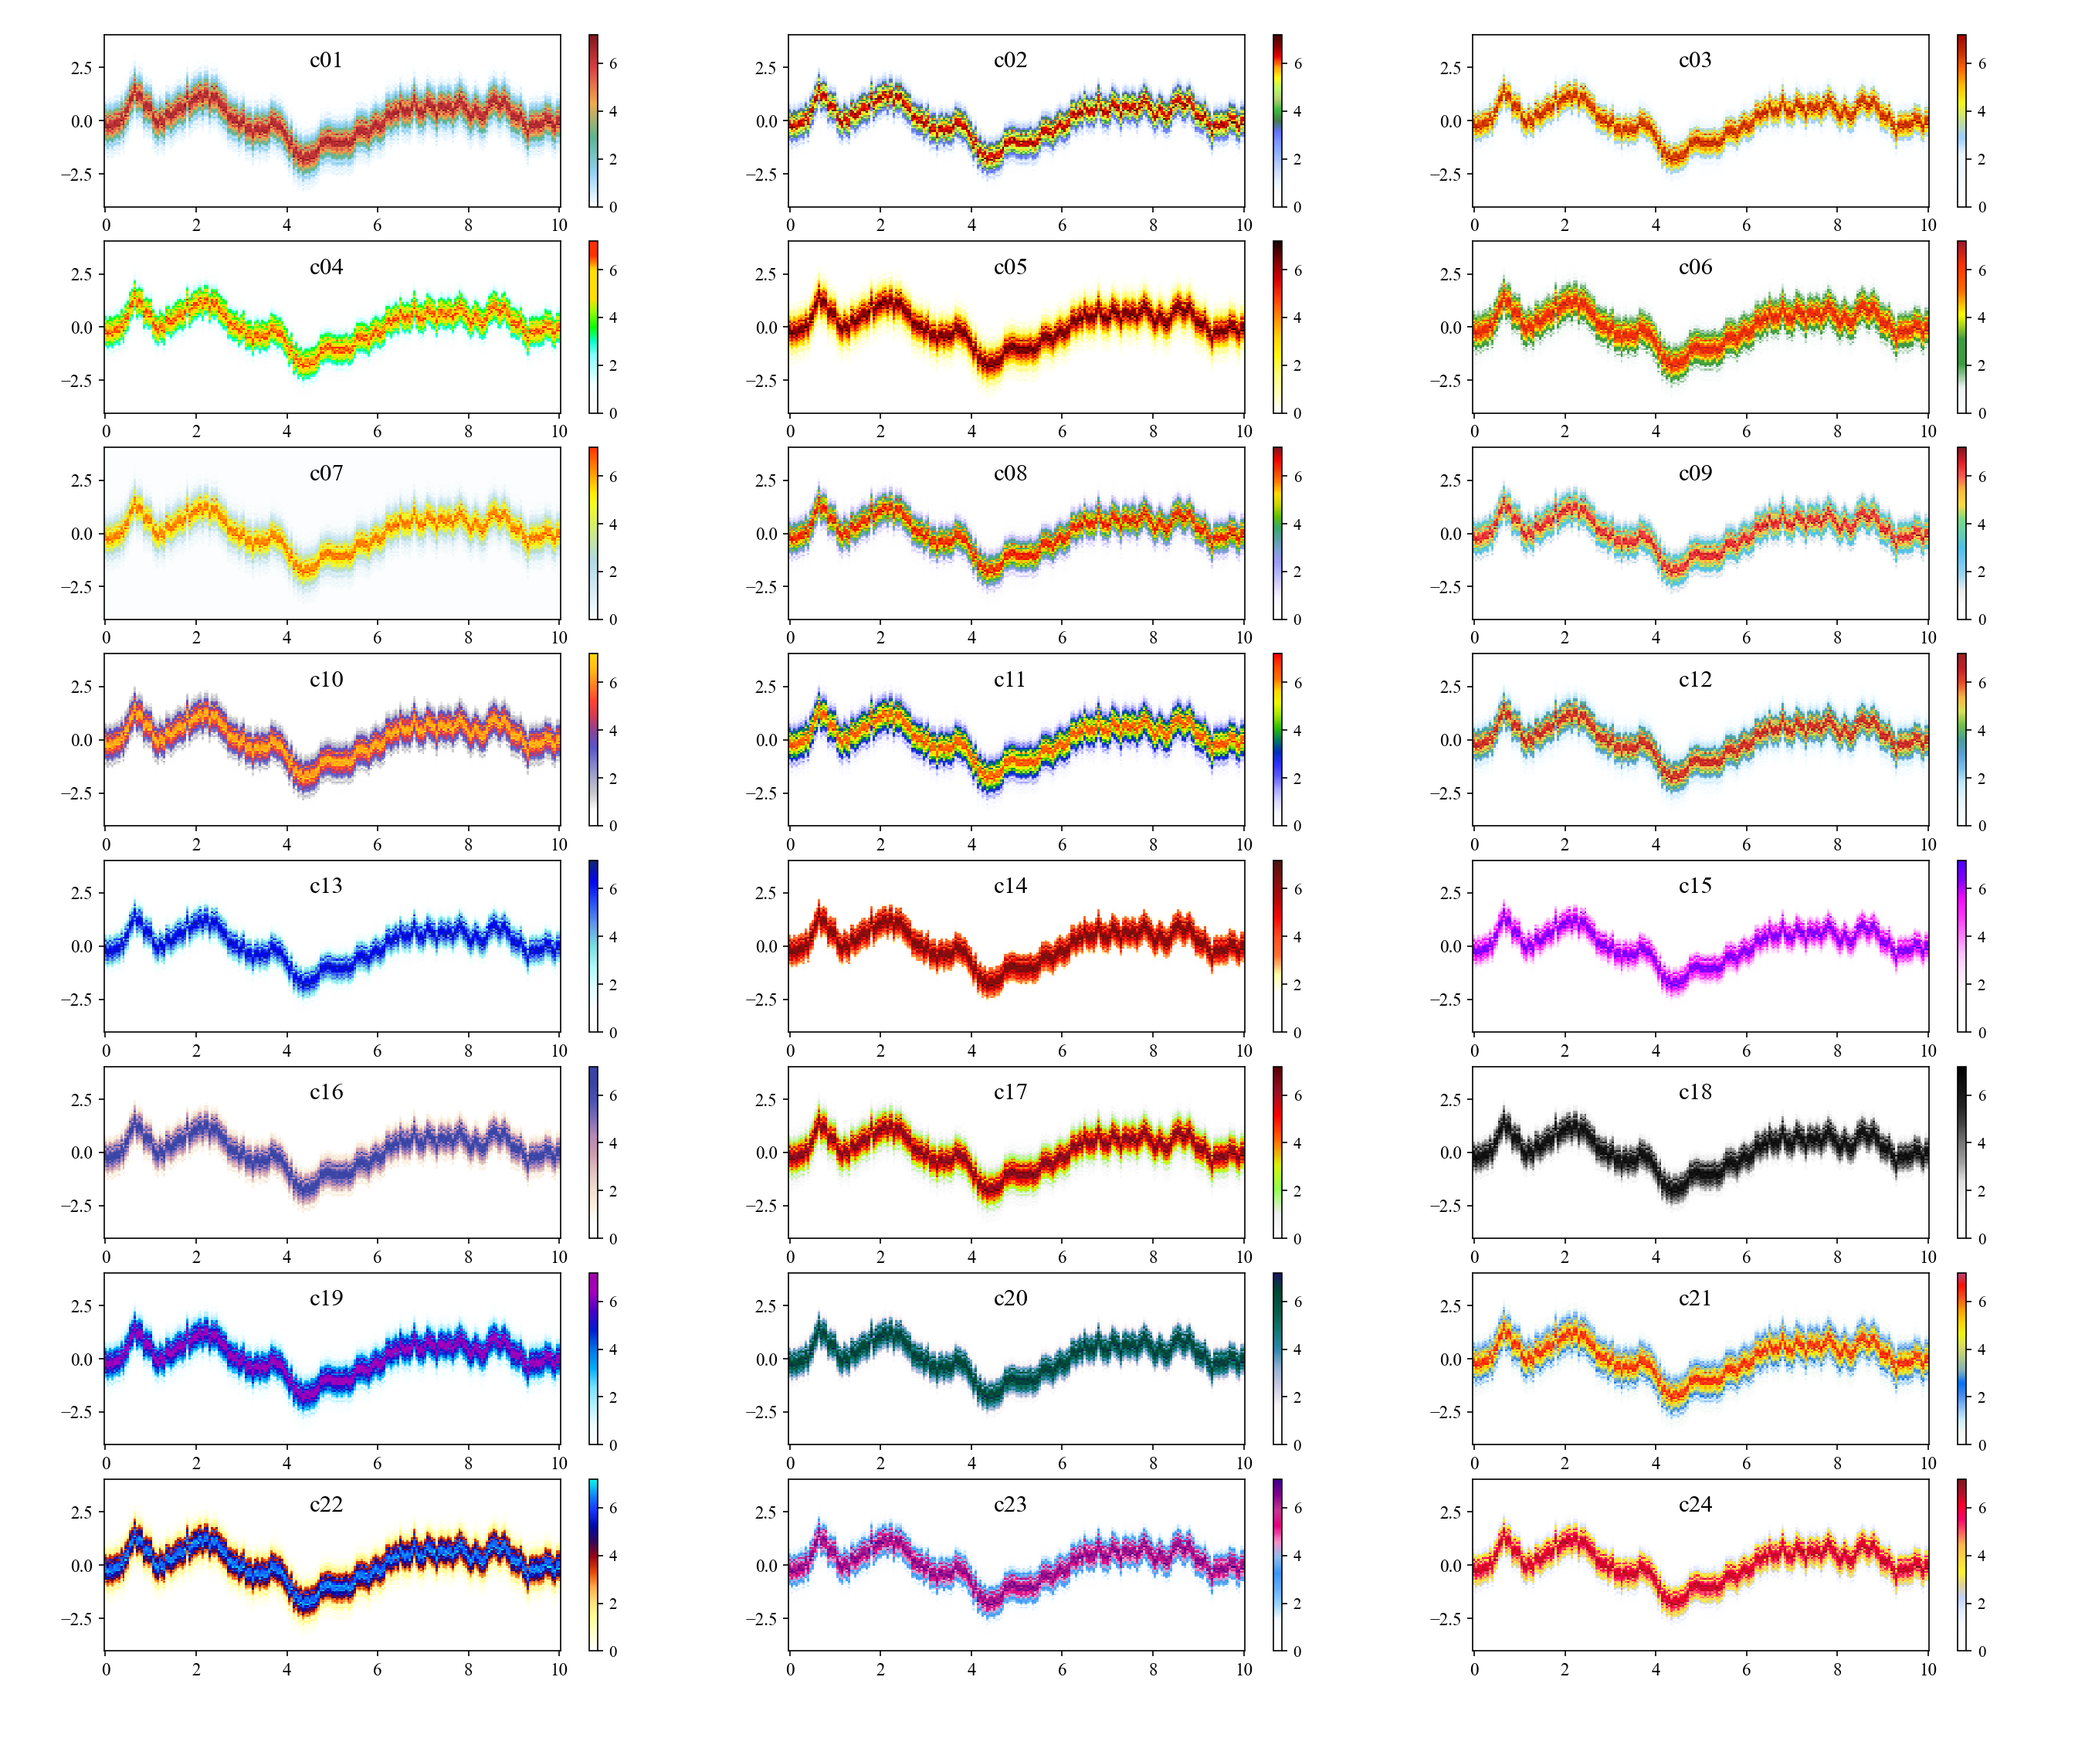
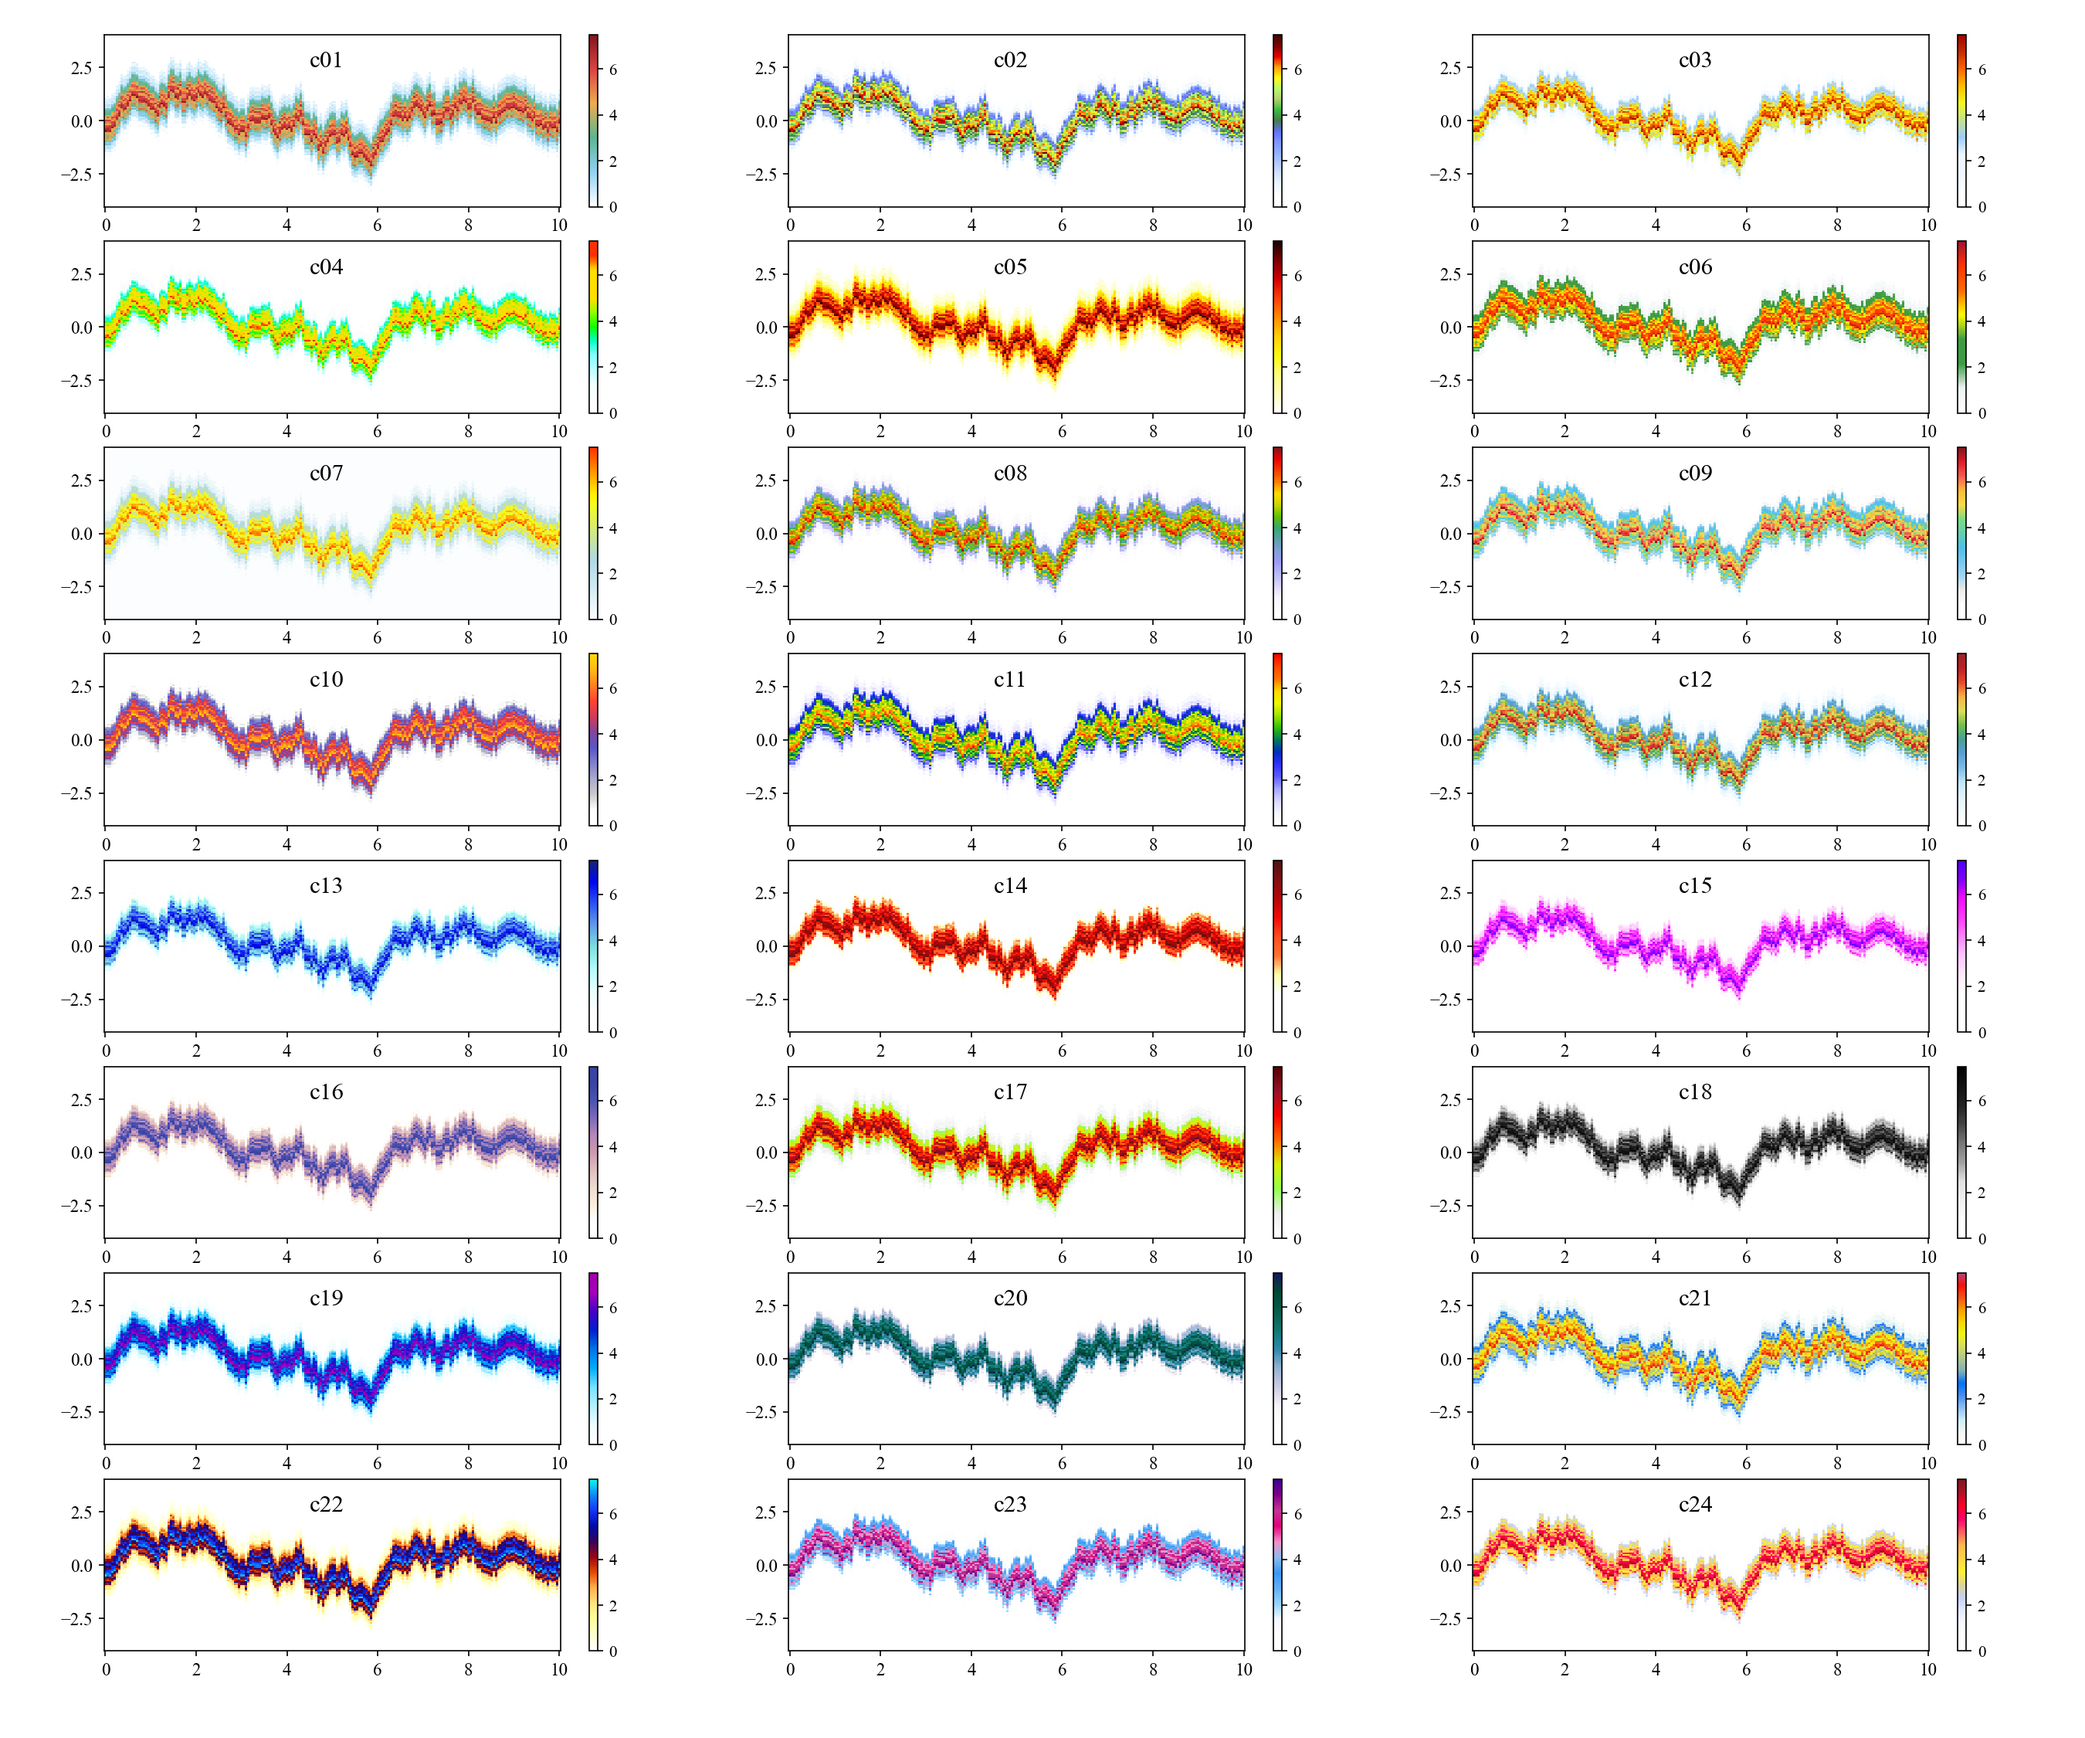
change station

diff --git a/post/colormaps_for_fantastic_visualizations/index.html b/post/colormaps_for_fantastic_visualizations/index.html
@@ -52,7 +52,7 @@
 1. Empirical probability image We usually use hit counts to compute empirical probability from large datasets, for example, the power spectral density curve of ambient seismic noise.">
 <meta itemprop="datePublished" content="2023-09-22T12:22:46+08:00" />
 <meta itemprop="dateModified" content="2023-09-22T12:22:46+08:00" />
-<meta itemprop="wordCount" content="876">
+<meta itemprop="wordCount" content="901">
 
 
 
@@ -337,11 +337,11 @@ or <code>plt.contourf()</code>.</p>
 </div><p><img src="/Colors_Colormaps/psd.png" alt="psd_cmaps"></p>
 <p>Just copy corresponding colors accoding to the order number on panels in above figure if you like.</p>
 <h3 id="4-the-power-spectral-density-curve-probability-of-seismic-ambient-noise-excited-by-ocean-waves">4. The power spectral density curve probability of seismic ambient noise excited by ocean waves</h3>
-<p>We collected three-year seismic data made by broadband station <code>IC.HIA</code> installed in China to compute the empirical
+<p>We collected three-year (from 2018 to 2020) vertical-component (BHZ) seismic data made by broadband station <code>IC.ENH</code> installed in Hubei province, China to compute the empirical
 probability of power spectral density curve on the band of [2, 60] second. This image show the features of power spectral density
-of seismic ambient noise generated by sea waves.
-Here we use colomap made from <code>c09</code> color string to show the probability image.</p>
-<p><img src="/Colors_Colormaps/IC.HIA.PSD.png" alt="IC_PSD"></p>
+of seismic ambient noise generated by sea waves (two peasks, about periods of 6 s and 15 s found in this figure).
+Here we use colomap made from <code>c09</code> color string to make colors for showing the probability image.</p>
+<p><img src="/Colors_Colormaps/IC.ENH.PSD.png" alt="IC_PSD"></p>
 
     </div>
 
